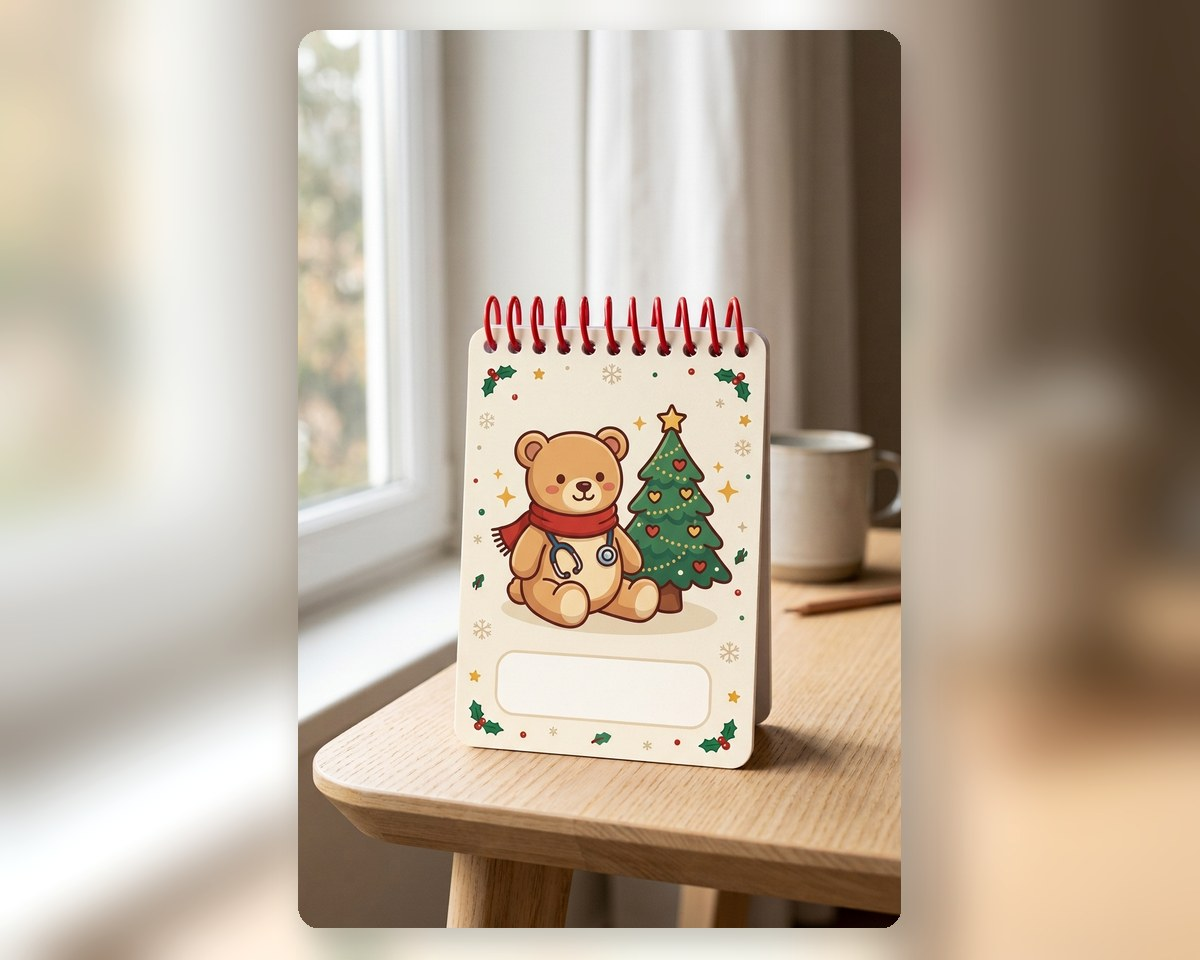
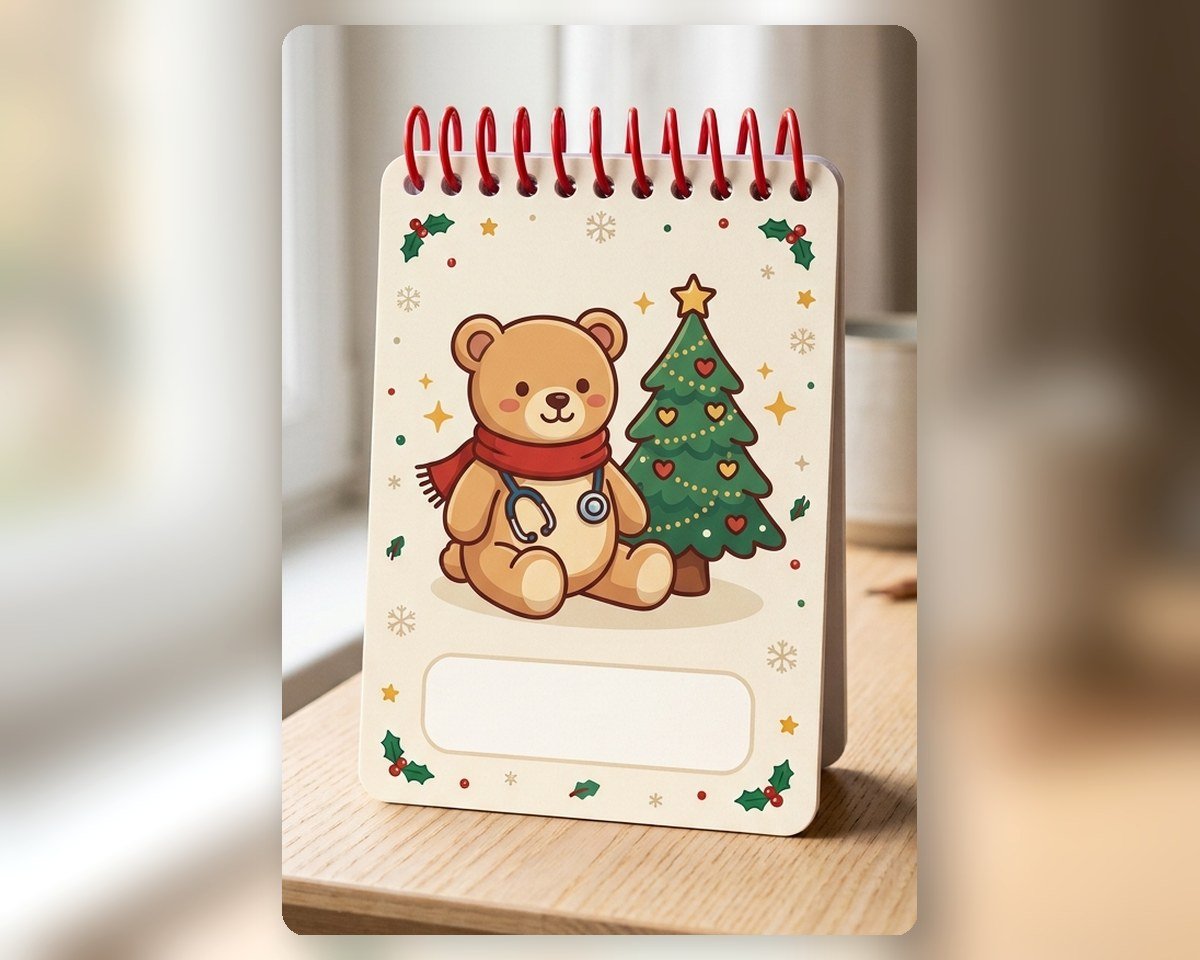
Mimo Desenhar: cartao e galeria com os bloquinhos individuais

diff --git a/index.html b/index.html
@@ -1391,7 +1391,7 @@ const FAIXAS = [
    ilustração (veja fotos/LEIA-ME.txt). Enquanto o arquivo não existir, o site mostra a ilustração. */
 /* Versão das fotos: quando trocar uma foto, mude este número para os navegadores baixarem a nova na hora,
    em vez de mostrarem a antiga que ficou guardada */
-const FOTOS_VERSAO = '2026-10-23a';
+const FOTOS_VERSAO = '2026-10-25a';
 const FOTO = {
   topo:    `fotos/topo.jpg?v=${FOTOS_VERSAO}`,
   historia:`fotos/historia.jpg?v=${FOTOS_VERSAO}`,
@@ -1645,9 +1645,9 @@ const PRODUTOS = [
     itens:['Massa de modelar, lacrada','Cortadores de formas','Cartão com a mensagem da data',TAG_CUIDAR],
     opcoes:pacoteCuidar(19.99) },
   /* Desenhar: folhas Chamex Notes 80 × 115 mm encadernadas com espiral, capa de papel fotográfico um pouco maior */
-  /* Fotos provisórias (criadas por IA): as capas de Natal por profissão. A 1 é a montagem com três capas. */
+  /* Fotos provisórias (criadas por IA): as capas de Natal por profissão. A 1 (montagem com três capas) fica fora: o cartão abre na capa do dentista, como o Mimo Massinha. */
   { id:'cuida-desenhar', criacao:'cuida-desenhar', versao:'cuidar', nome:'Mimo Desenhar', cod:'CU-DS',
-    fotos:[1,2,3,4,5,6,7,8].map(i=>`fotos/cuida-desenhar-${i}.jpg?v=${FOTOS_VERSAO}`),
+    fotos:[2,3,4,5,6,7,8].map(i=>`fotos/cuida-desenhar-${i}.jpg?v=${FOTOS_VERSAO}`),
     embalagem:'Saquinho de algodão cru', resumo:'Um bloquinho de desenho com a capa da sua profissão e giz de cera.',
     descricao:'Em vez de colorir um desenho pronto, a criança cria o dela: um bloquinho de desenho com espiral, folhas lisas de 8 × 11,5 cm e giz de cera para desenhar o que imaginar. A capa, de papel fotográfico, tem o tema da sua profissão (dentista, pediatra, neuropediatra, fonoaudiologia, psicologia, terapia ocupacional, escola ou creche) e um espaço com o seu nome. No Natal, as capas ganham uma edição especial.',
     selos:['Capa com o tema da sua profissão','Folhas lisas para criar','Com o seu nome'],
